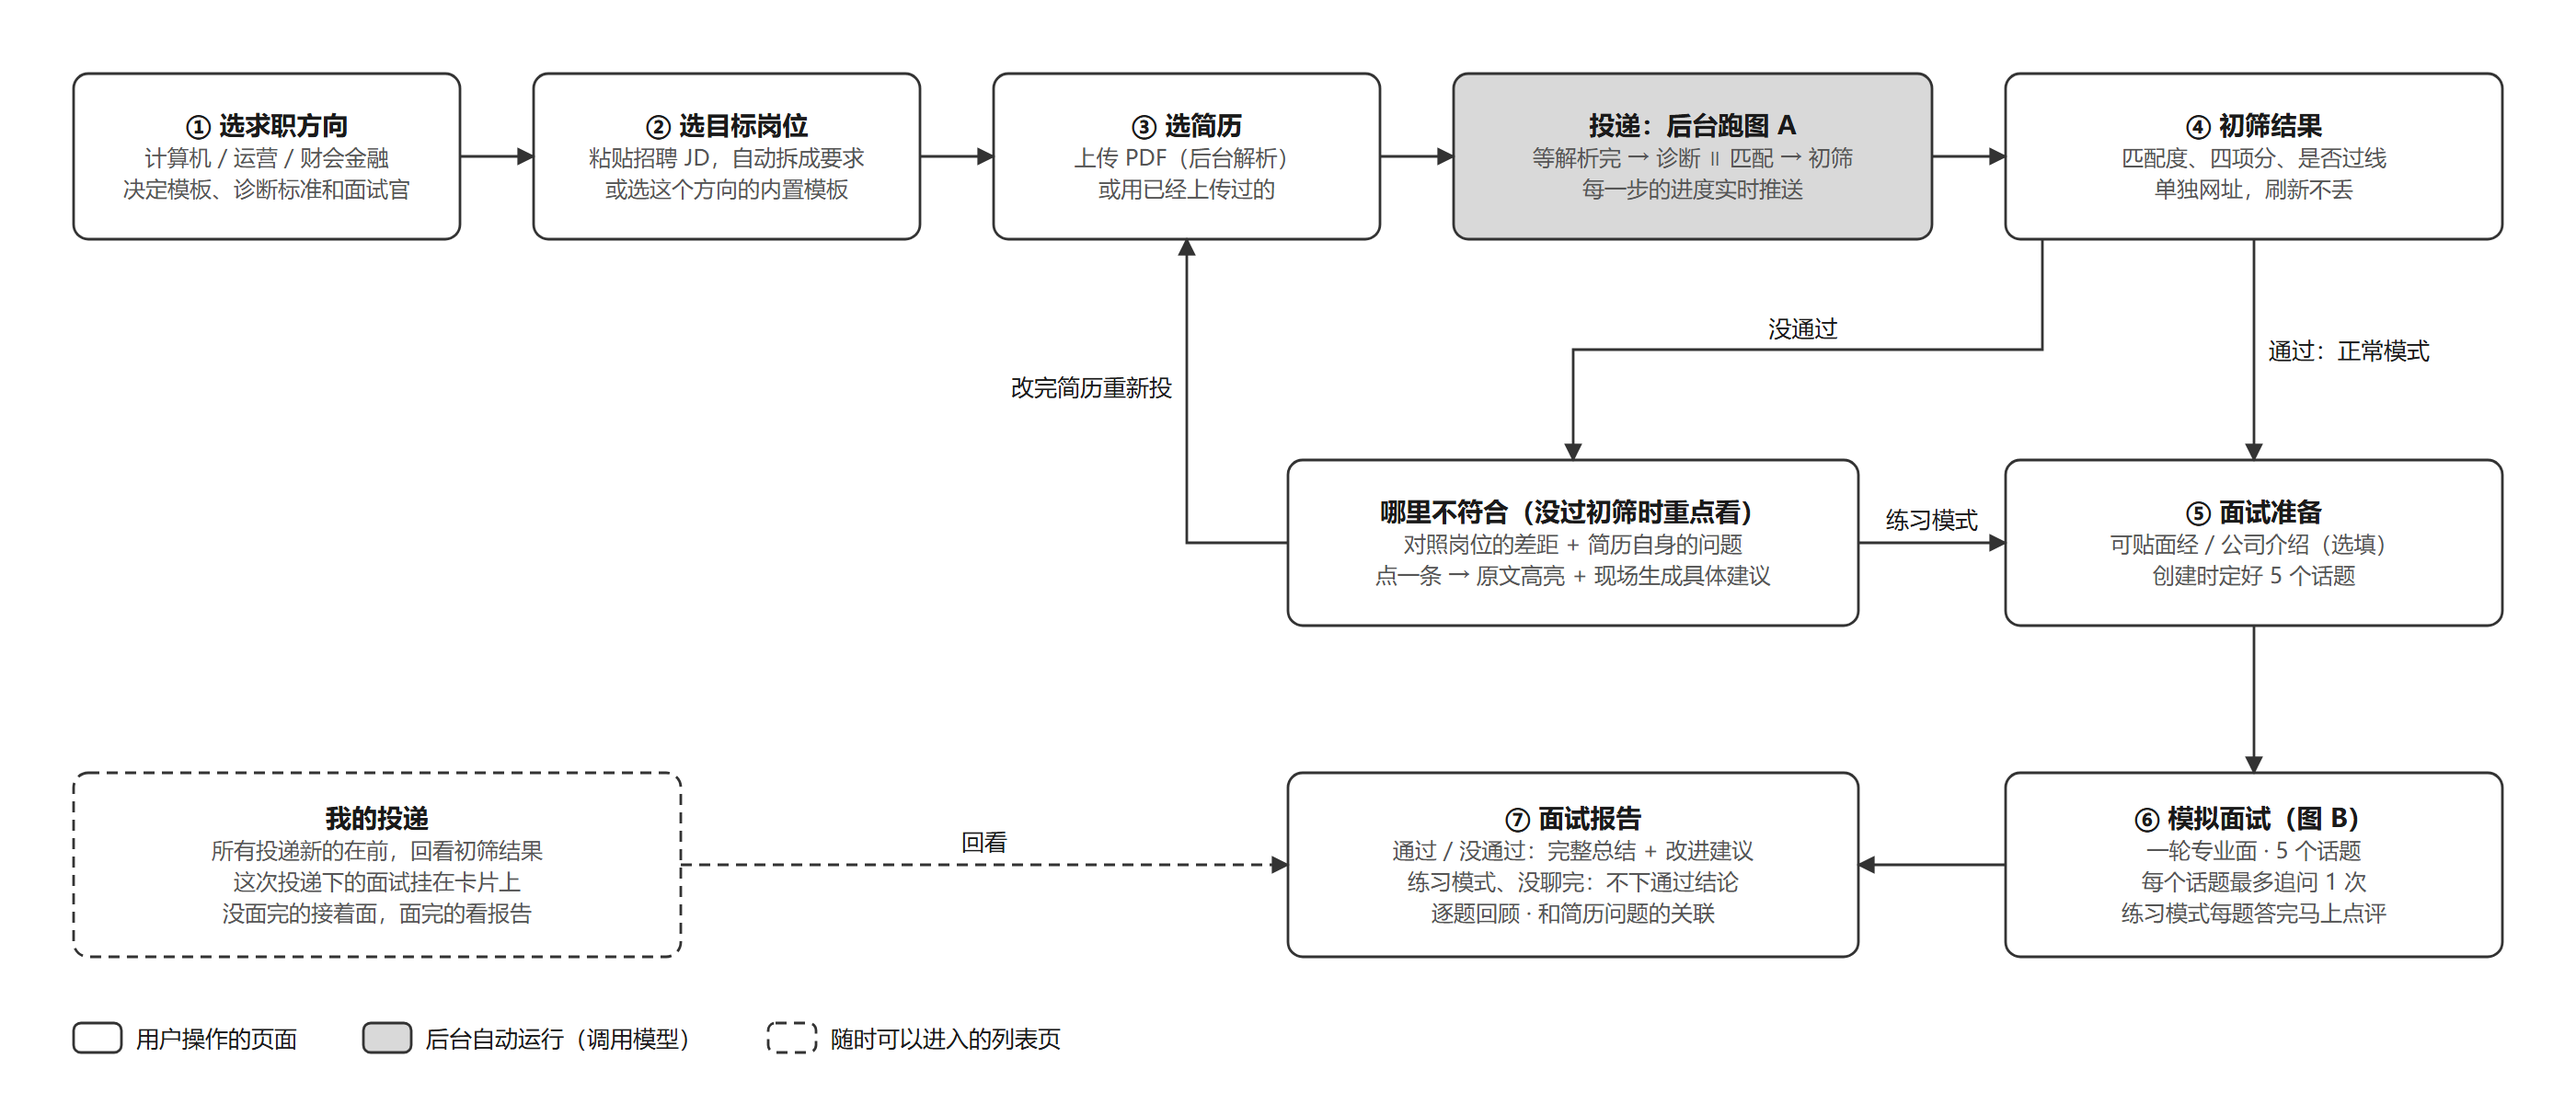
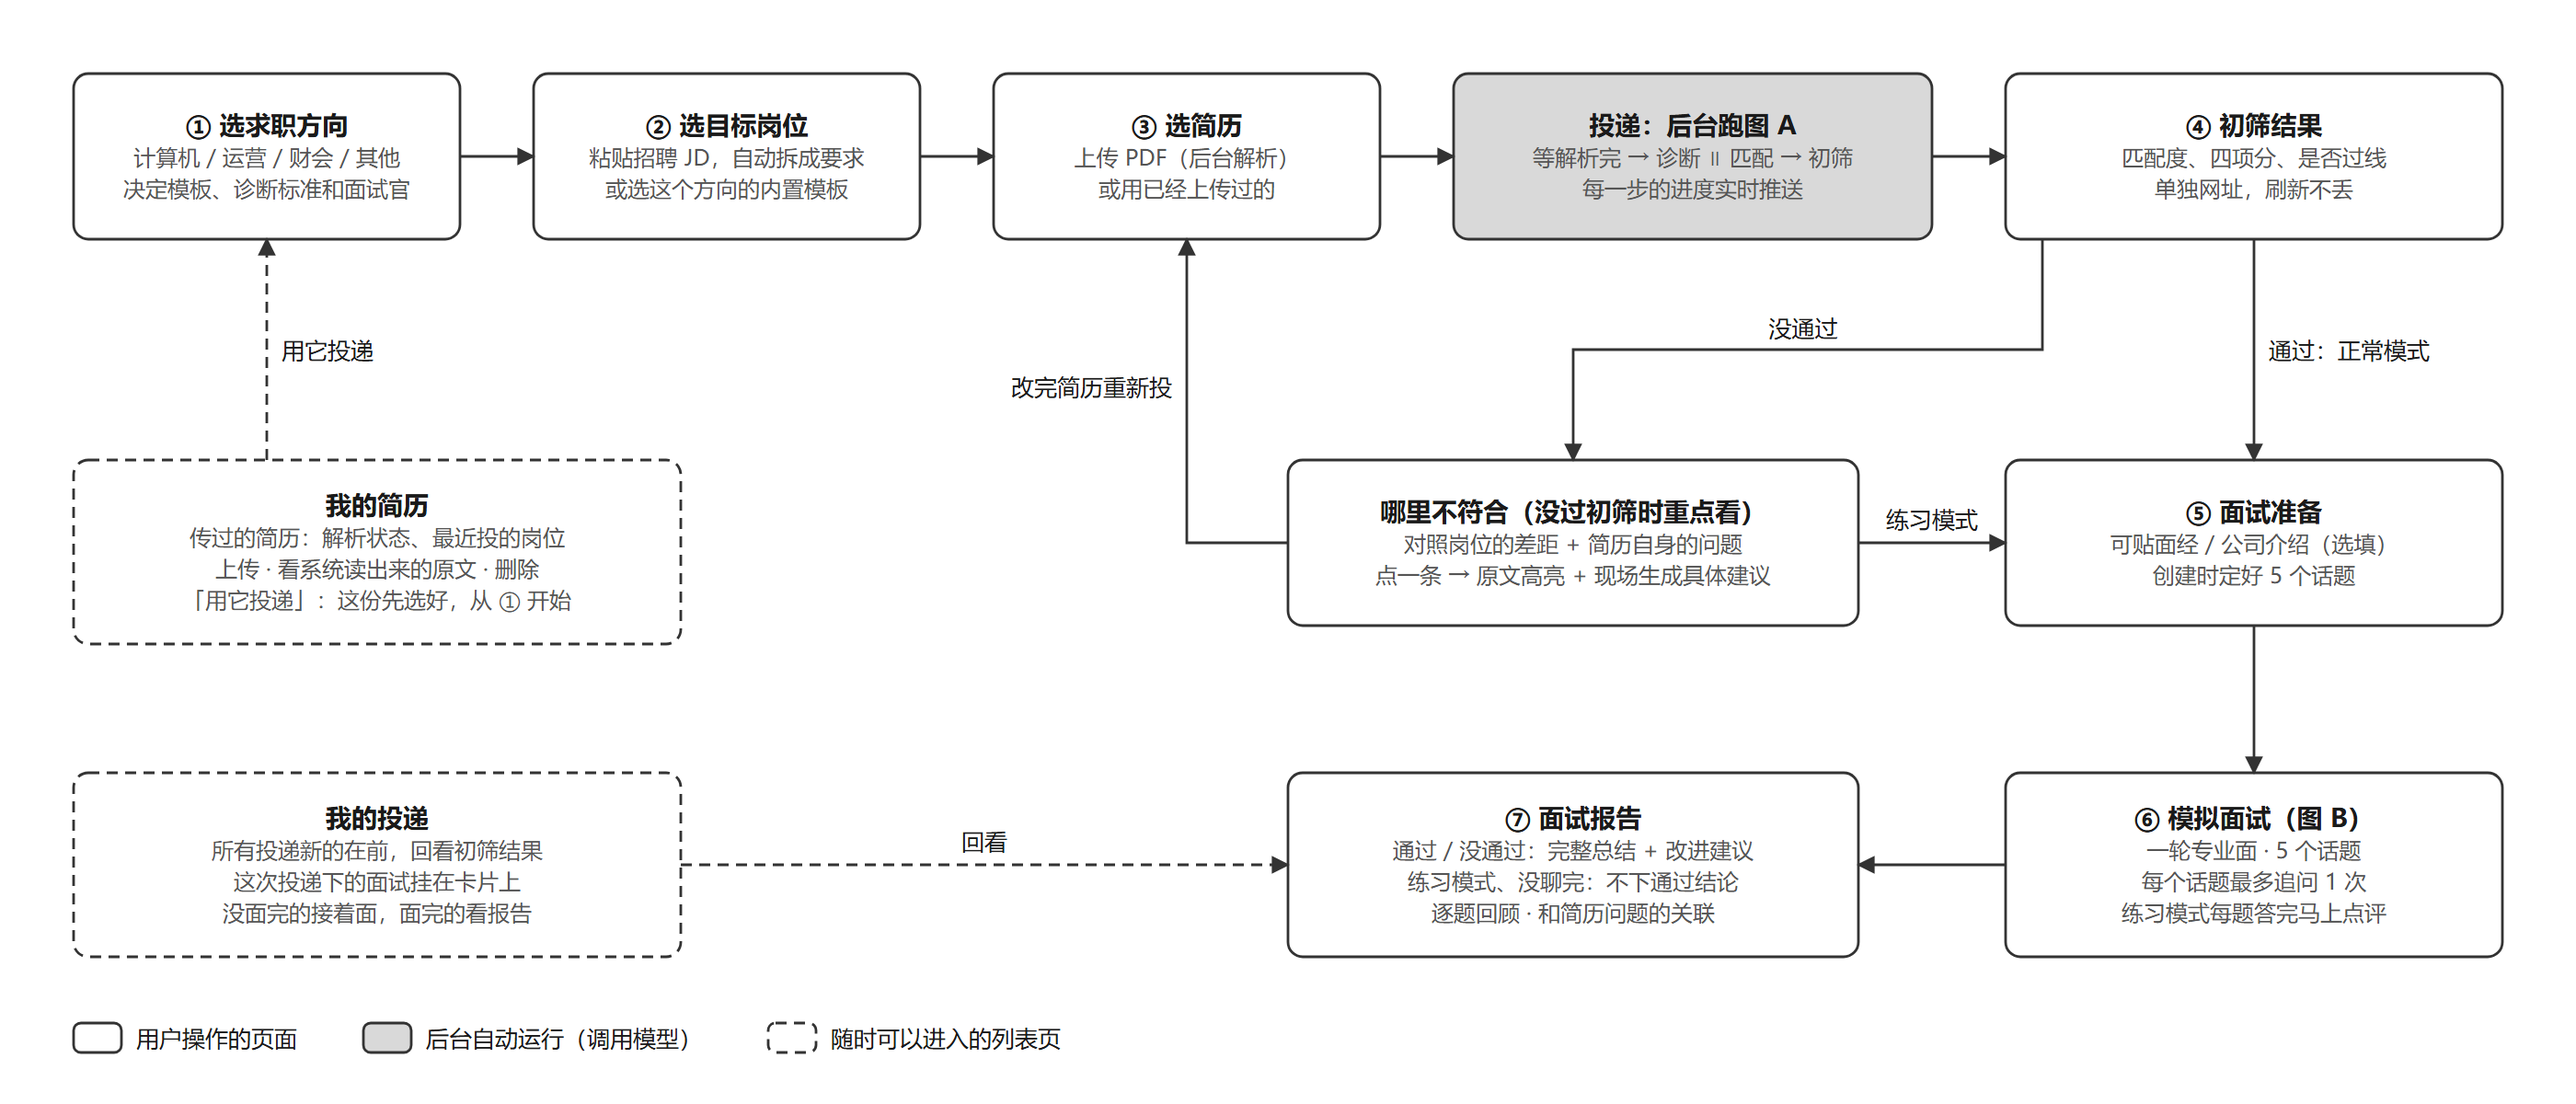
docs: 论文用图 1、2 补上「其他」方向和「我的简历」，图 7 的花费换成现在的
- 图 1：前端一行加「我的简历」，领域包写四个方向
- 图 2：① 写四个方向；加「我的简历」列表页，「用它投递」虚线回到 ①
- 图 7 和 05 5.3 (2)：hybrid 的花费、用时换成加技能栏复核之后那次实跑的（¥0.0068 / 1.6 s）
- 10-10 全面审查的第三档第 2 条

Changed region(s): [[0.0621, 0.4317, 0.2175, 0.555], [0.0621, 0.1233, 0.1554, 0.1542], [0.0932, 0.3083, 0.1554, 0.3392]]

diff --git a/docs/figures/make_figures.py b/docs/figures/make_figures.py
@@ -108,7 +108,7 @@ def find_browser() -> str | None:
 def fig_architecture() -> Fig:
     f = Fig("图1-系统架构", 1400, 930)
     f.box(40, 24, 1320, 72, "浏览器 · 前端单页应用（React 18 + TypeScript + Vite）",
-          ["工作台（选方向 → 选岗位 → 选简历 → 投递）· 初筛结果与原文高亮 · 模拟面试 · 我的投递"], tsize=16, dsize=13)
+          ["工作台（选方向 → 选岗位 → 选简历 → 投递）· 初筛结果与原文高亮 · 模拟面试 · 我的投递 · 我的简历"], tsize=16, dsize=13)
     f.line([(508, 96), (508, 162)], both=True)
     f.text(518, 117, "HTTP 接口 / SSE 流式推送", 12, 400, INK2, "start")
 
@@ -129,7 +129,7 @@ def fig_architecture() -> Fig:
     f.box(514, 538, 410, 56, "图 B · 模拟面试（LangGraph）", ["定话题 → 出题 → 等回答（interrupt）→ 评分 → 追问 / 换题"], dsize=13)
     mods = [("diagnose/ 诊断", "7 条规则 + 模型审阅"), ("matching/ 匹配", "规则先判 + 全文判断"),
             ("interview/ 面试", "话题 · 评分 · 追问策略"), ("rewrite/ 具体建议", "流式生成 + 数字复检"),
-            ("domains/ 领域包", "计算机 / 运营 / 财会")]
+            ("domains/ 领域包", "计算机 / 运营 / 财会 / 其他")]
     mw = (832 - 4 * 12) / 5
     for i, (t, d) in enumerate(mods):
         f.box(92 + i * (mw + 12), 608, mw, 76, t, [d])
@@ -165,7 +165,7 @@ def fig_architecture() -> Fig:
 # ═════════════════════════════ 图 2 产品流程 ═════════════════════════════
 def fig_product_flow() -> Fig:
     f = Fig("图2-产品流程", 1400, 600)
-    f.box(40, 40, 210, 90, "① 选求职方向", ["计算机 / 运营 / 财会金融", "决定模板、诊断标准和面试官"])
+    f.box(40, 40, 210, 90, "① 选求职方向", ["计算机 / 运营 / 财会 / 其他", "决定模板、诊断标准和面试官"])
     f.box(290, 40, 210, 90, "② 选目标岗位", ["粘贴招聘 JD，自动拆成要求", "或选这个方向的内置模板"])
     f.box(540, 40, 210, 90, "③ 选简历", ["上传 PDF（后台解析）", "或用已经上传过的"])
     f.box(790, 40, 260, 90, "投递：后台跑图 A", ["等解析完 → 诊断 ∥ 匹配 → 初筛", "每一步的进度实时推送"], fill=LLM_FILL)
@@ -191,6 +191,9 @@ def fig_product_flow() -> Fig:
     f.line([(1090, 470), (1010, 470)])
     f.line([(370, 470), (700, 470)], dash=True)
     f.text(535, 462, "回看", 12.5, 400, INK)
+    f.box(40, 250, 330, 100, "我的简历", ["传过的简历：解析状态、最近投的岗位", "上传 · 看系统读出来的原文 · 删除", "「用它投递」：这份先选好，从 ① 开始"], dash=True)
+    f.line([(145, 250), (145, 130)], dash=True)
+    f.text(153, 195, "用它投递", 12.5, 400, INK, "start")
     f.legend(40, 568, [("#fff", "用户操作的页面", None), (LLM_FILL, "后台自动运行（调用模型）", None),
                        ("#fff", "随时可以进入的列表页", "dash")])
     return f
@@ -425,7 +428,7 @@ def fig_match_eval() -> Fig:
          series, ylabel="与标准答案的一致率（%）")
     notes = ["20 份简历 × 8 条要求 = 160 条，满足与否在造数据时就定好；dict_only、llm_fulltext 重复 3 次；hybrid 是加了技能栏复核之后的（实跑 1 次 + 离线重算 3 次都是 100%），",
              "加复核之前 hybrid 总体 97.7±0.4%、只写在技能栏 81.7±2.9%（模型看到「专业技能中列出了 X」就判满足）。",
-             "每份交给模型的条数 / 花费 / 用时：dict_only 0 / 0 元 / 毫秒级；llm_fulltext 8 / ¥0.0092 / 2.5 s；hybrid 5 / ¥0.0067 / 1.9 s。"]
+             "每份交给模型的条数 / 花费 / 用时：dict_only 0 / 0 元 / 毫秒级；llm_fulltext 8 / ¥0.0092 / 2.5 s；hybrid 5 / ¥0.0068 / 1.6 s。"]
     for i, s in enumerate(notes):
         f.text(100, 540 + i * 24, s, 12.5, 400, INK2, "start")
     return f
